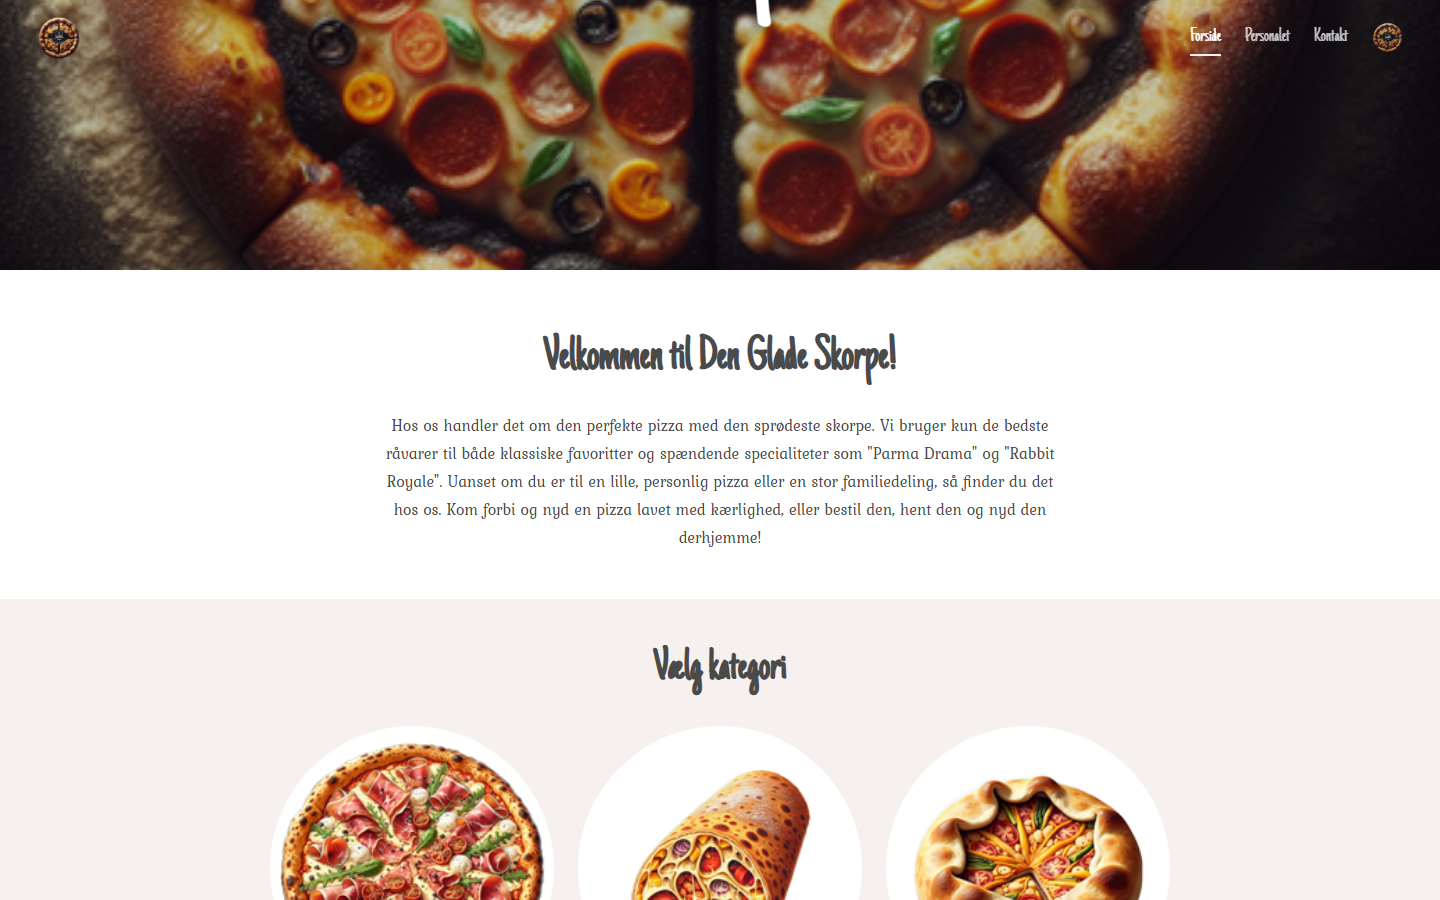
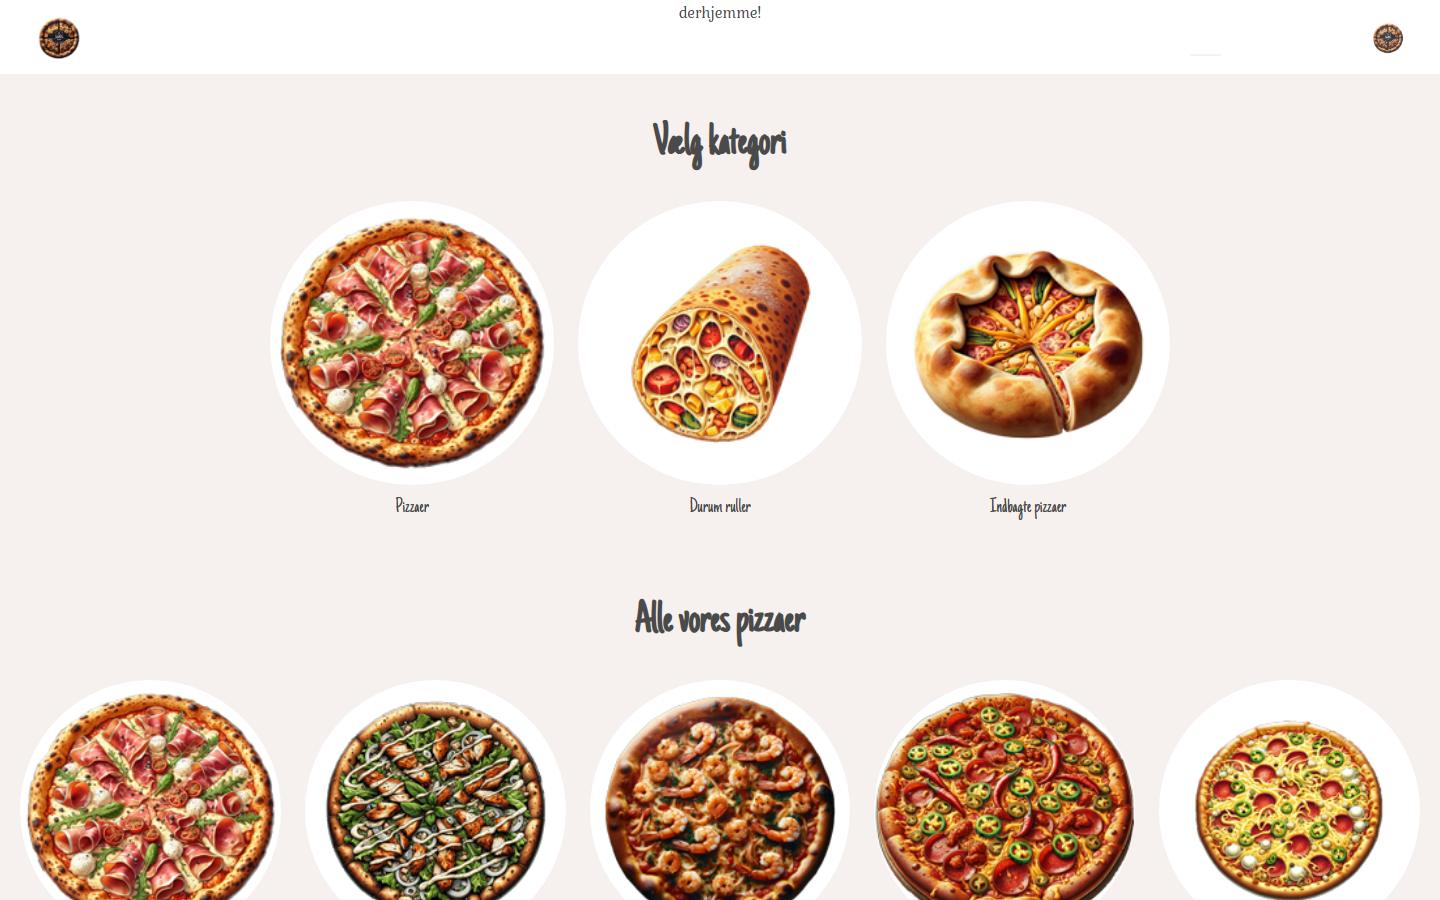
feat: replace screenshots with manual FireShot captures; fix hero height on mobile; add ga-til-kurv link after add to basket

diff --git a/dgs_frontend/src/pages/DishDetail.module.css b/dgs_frontend/src/pages/DishDetail.module.css
@@ -297,6 +297,28 @@
 
 .addBtn.added { background-color: #4caf50; }
 
+.goToBasket {
+  display: block;
+  text-align: center;
+  margin-top: 0.6rem;
+  margin-bottom: 1.2rem;
+  padding: 0.55rem 1.2rem;
+  background: #fff;
+  color: var(--color-dark);
+  border: 2px solid var(--color-dark);
+  border-radius: 999px;
+  font-family: var(--font-body);
+  font-size: 0.95rem;
+  font-weight: 600;
+  text-decoration: none;
+  transition: background 0.18s, color 0.18s;
+}
+
+.goToBasket:hover {
+  background: var(--color-dark);
+  color: #fff;
+}
+
 .status {
   padding: var(--spacing-xl);
   text-align: center;

diff --git a/dgs_frontend/src/pages/DishDetail.jsx b/dgs_frontend/src/pages/DishDetail.jsx
@@ -1,5 +1,5 @@
 import { useState, useEffect } from 'react'
-import { useParams, useNavigate } from 'react-router-dom'
+import { useParams, useNavigate, Link } from 'react-router-dom'
 import { getDish, getIngredients } from '../services/api'
 import { useBasket } from '../context/BasketContext'
 import { usePageTitle } from '../hooks/usePageTitle'
@@ -57,7 +57,7 @@ export default function DishDetail() {
       basketKey: `${dish._id}-${selectedSize}`,
     })
     setAdded(true)
-    setTimeout(() => setAdded(false), 2000)
+    setTimeout(() => setAdded(false), 5000)
   }
 
   if (loading) return <main className={styles.main}><p className={styles.status}>Henter ret…</p></main>
@@ -141,6 +141,11 @@ export default function DishDetail() {
         >
           {added ? '✓ Tilføjet!' : `Tilføj ${dish.title} til kurven`}
         </button>
+        {added && (
+          <Link to="/basket" className={styles.goToBasket}>
+            Gå til kurv →
+          </Link>
+        )}
 
         {/* Extras toggle — shows ALL available ingredients */}
         {allIngredients.length > 0 && (

diff --git a/dgs_frontend/src/pages/Home.module.css b/dgs_frontend/src/pages/Home.module.css
@@ -10,7 +10,7 @@
   background-position: center;
   color: var(--color-white);
   text-align: center;
-  min-height: 100svh;
+  min-height: 55svh;
   display: flex;
   flex-direction: column;
   align-items: center;
@@ -187,12 +187,14 @@
 
 @media (min-width: 768px) {
   /* tablet */
+  .hero { min-height: 65svh; }
   .grid { grid-template-columns: repeat(4, 1fr); }
   .catGrid { max-width: 600px; }
 }
 
 @media (min-width: 1024px) {
   /* desktop */
+  .hero { min-height: 100svh; }
   .heroTitle { font-size: 6rem; }
   .heroSub { font-size: 1.25rem; }
   .grid { grid-template-columns: repeat(4, 1fr); }

diff --git a/RAPPORT.md b/RAPPORT.md
@@ -793,7 +793,7 @@ Desktop: 1440 × 900 px · viewport-snapshot.
 </figure>
 
 <figure>
-<img src="docs/screenshots/home-desktop-grid.png" style="height:420px;object-fit:cover;object-position:top;" />
+<img src="docs/screenshots/home-desktop-dishes.png" style="height:420px;object-fit:cover;object-position:top;" />
 <figcaption>Forside – rettegrid og kategorifilter (desktop)</figcaption>
 </figure>
 